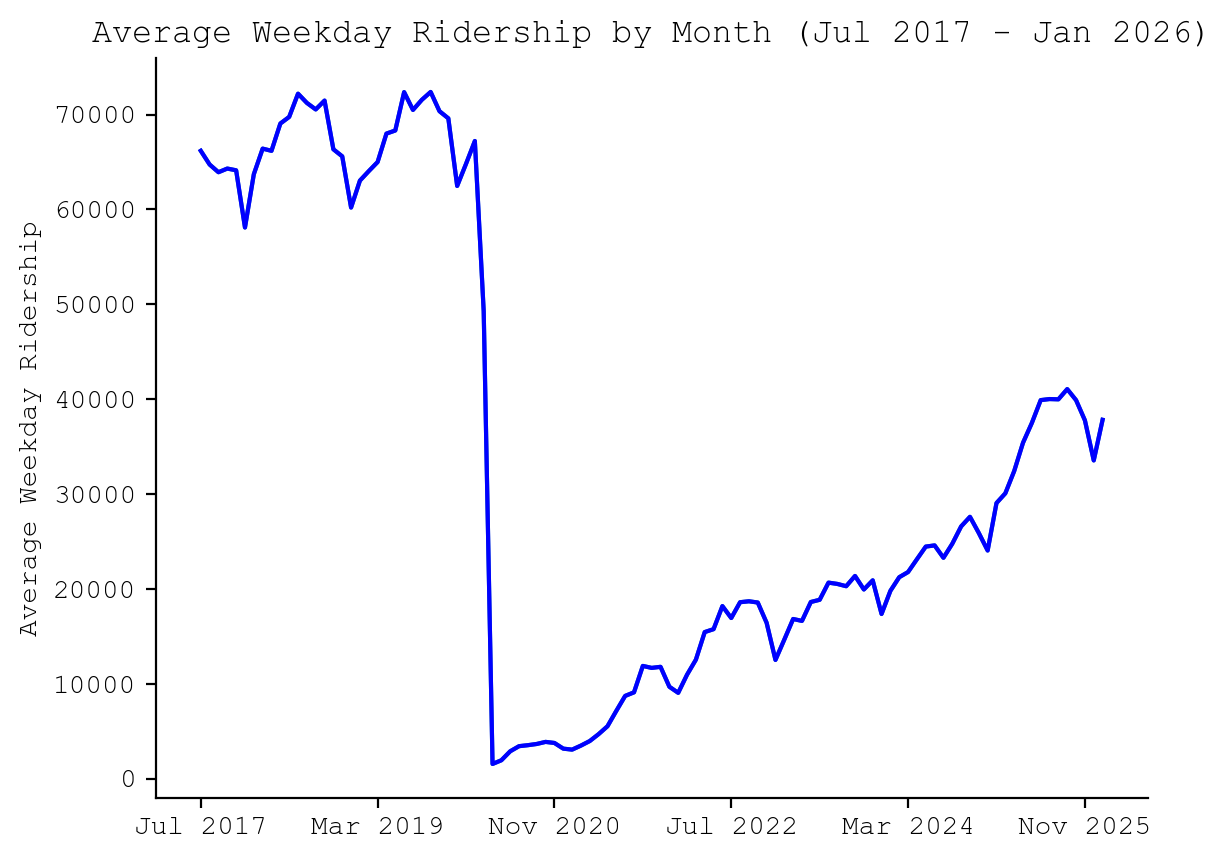
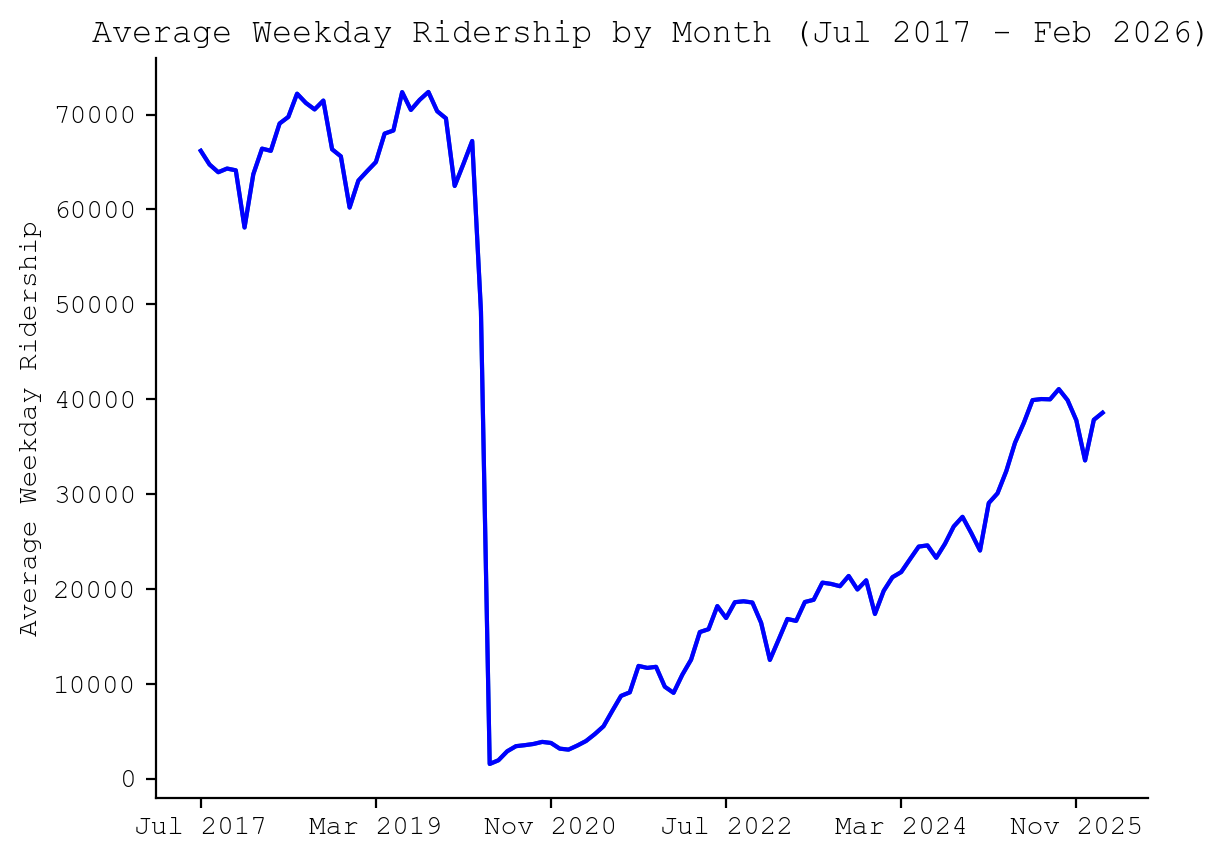
add feb 2026

diff --git a/site/index.html b/site/index.html
@@ -9,15 +9,15 @@
 </head>
 <body>
     <h1>Caltrain Ridership</h1>
-    <p><em>Last updated: 2026-03-01</em></p>    
+    <p><em>Last updated: 2026-03-13</em></p>    
     <div class="news">
         <p>
             It looks like you're on desktop, so you can use Caltrain's new ridership web page which has more detailed ridership data from 2023 onwards: <a href="https://www.caltrain.com/about-caltrain/statistics-reports/ridership/fare-media-based">https://www.caltrain.com/about-caltrain/statistics-reports/ridership/fare-media-based</a>.
         </p>
     </div>
     <p>
-        This site contains graphs and a table of Caltrain's average weekday ridership from Jul 2017 to Jan 2026 sourced from <a href="https://www.caltrain.com/about-caltrain/statistics-reports/ridership/fare-media-based">Fare Media Sales-Based Ridership Estimates</a> and JPB Citizens Advisory Committee documents.
-        Average weekday ridership is reported with a 1-month lag, so the most recent data is from Jan 2026.
+        This site contains graphs and a table of Caltrain's average weekday ridership from Jul 2017 to Feb 2026 sourced from <a href="https://www.caltrain.com/about-caltrain/statistics-reports/ridership/fare-media-based">Fare Media Sales-Based Ridership Estimates</a> and JPB Citizens Advisory Committee documents.
+        Average weekday ridership is reported with a 1-month lag, so the most recent data is from Feb 2026.
     </p>
     <p>
         You can find a <a href="https://github.com/iechevarria/caltrain-ridership/blob/main/ridership.csv">CSV</a> of Caltrain's average weekday ridership and the script to generate this site on <a href="https://github.com/iechevarria/caltrain-ridership">GitHub</a>.
@@ -31,6 +31,10 @@
     <tr>
         <td>Month</td>
         <td>Average weekday ridership</td>
+    </tr>
+    <tr>
+        <td>Feb 2026</td>
+        <td>38574</td>
     </tr>
     <tr>
         <td>Jan 2026</td>
